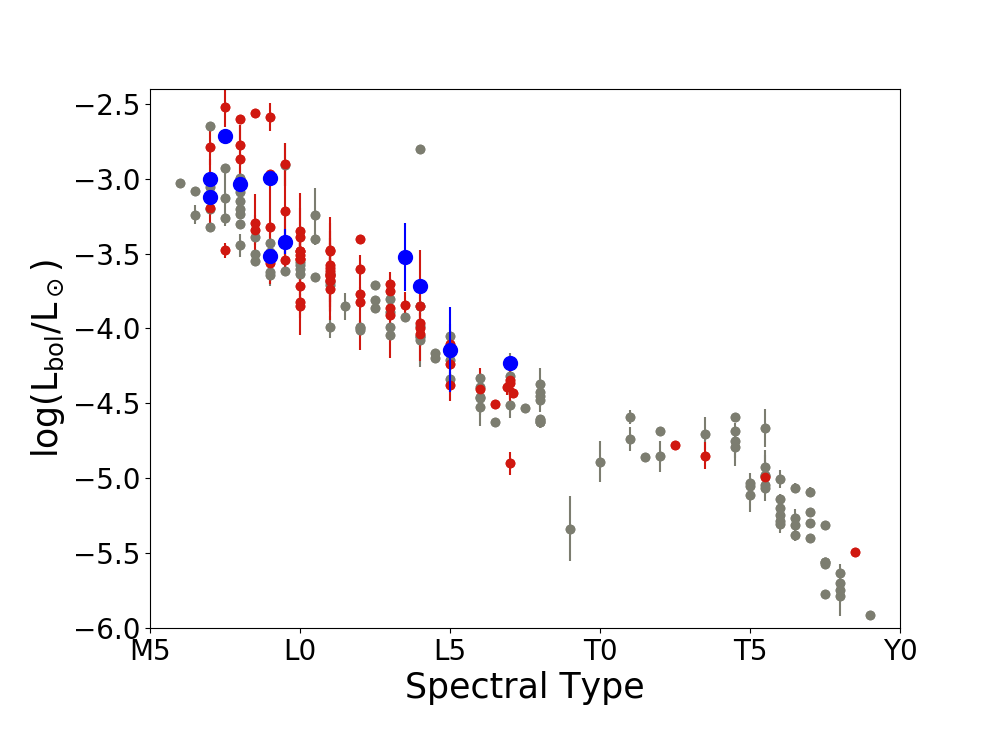
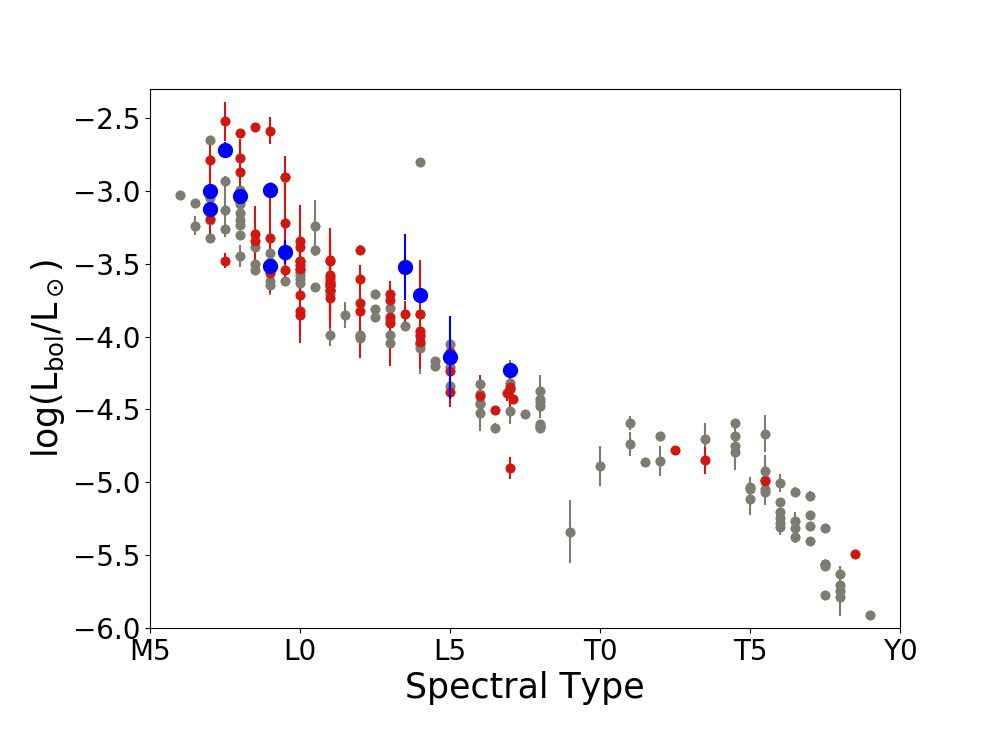
axes fixed to not cut off error bars

diff --git a/SptvLbol.py b/SptvLbol.py
@@ -23,7 +23,7 @@ ax1 = fig.add_subplot(111)
 fig.set_size_inches(10, 645)  # to make sure proper size run entire code at once and change 8 to 6.45 to
 plt.gcf().subplots_adjust(bottom=0.15, left=0.15)
 plt.xlim([5, 30])
-plt.ylim([-6, -2.4])
+plt.ylim([-6, -2.3])
 
 # ------ Axes Labels --------
 plt.xticks([5, 10, 15, 20, 25, 30], ['M5', 'L0', 'L5', 'T0', 'T5', 'Y0'], fontsize=20)
